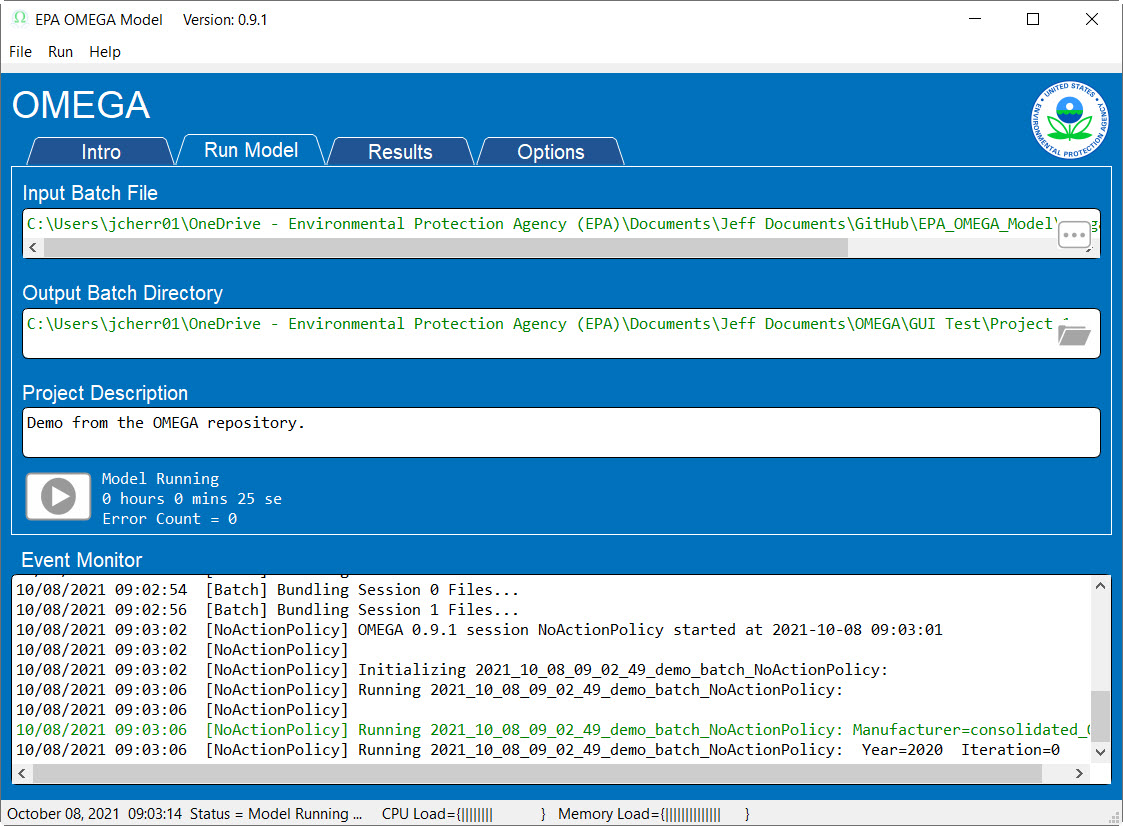
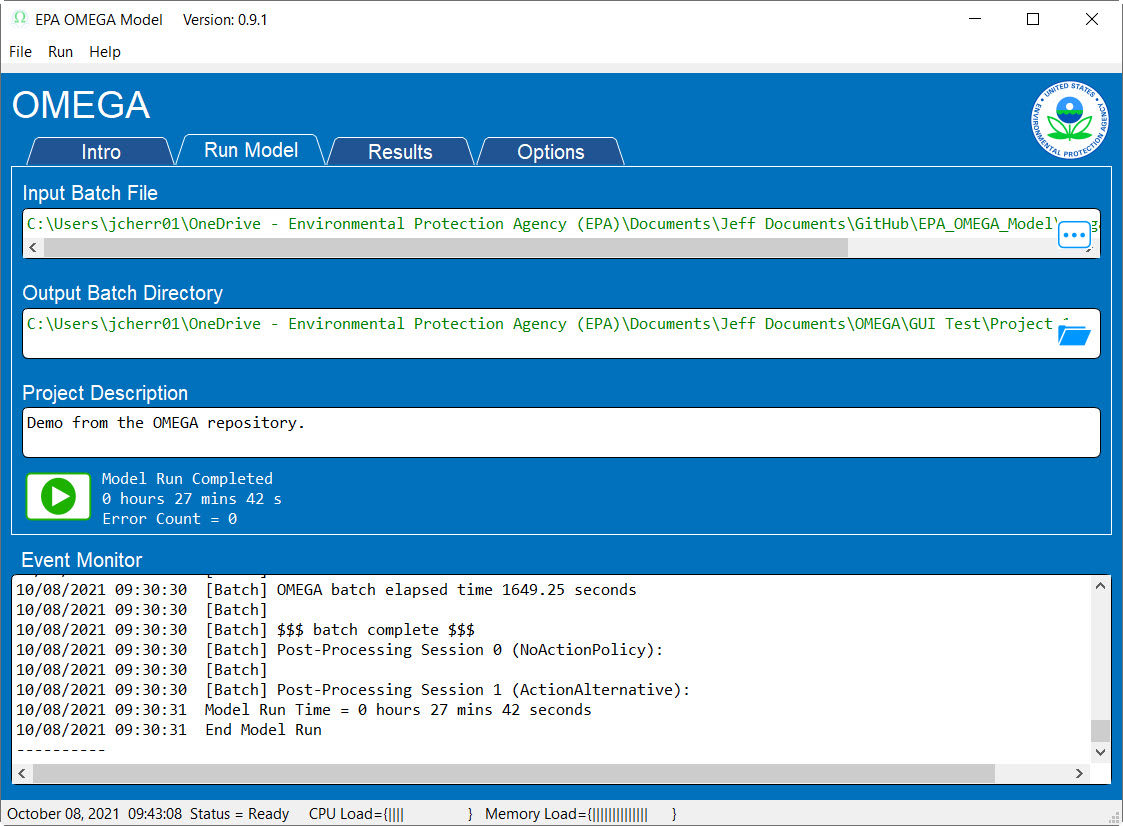
Documentation Update

diff --git a/doc/source/3_running_and_understanding_the_demo.rst b/doc/source/3_running_and_understanding_the_demo.rst
@@ -57,24 +57,14 @@ Description of the 'Run Model' page elements:
 
 Running the Demo Example
 ^^^^^^^^^^^^^^^^^^^^^^^^
-The elements required to run the model loaded using an existing Configuration File  (:numref:`ug_label6`) or by creating a new model run (:numref:`ug_label7`).  The latter will be used to run the demo example.
+The elements required to run the model are loaded by creating a new model run, or by using an existing Configuration File.  As this is the first time the Demo Example will be run, a new model run will be created.
 
 ::
 
     Note: The Event Monitor will provide additional guidance through the model loading process.
 
-.. _ug_label6:
-
-Existing Configuration File
----------------------------
-From the file menu, select 'Open Configuration File' to launch a standard File Explorer window to load an existing Configuration File.  When properly loaded, the 'Run Model' page will look similar to :numref:`ug_label3` below.  The displayed values represent one of the supplied demonstration model configurations.
-
-.. _ug_label7:
-
 Create New Model Run From The Demo Example
 ------------------------------------------
-If a Configuration File is not available, create a new model run using these steps:
-
 * Select the 'Run Model' tab.
 * Load an existing OMEGA Input Batch File using the file menu or button to the right of the field.  (Required)
 * Load a new or existing OMEGA Output Batch Directory using the file menu or button to the right of the field.  (Required)
@@ -82,6 +72,10 @@ If a Configuration File is not available, create a new model run using these ste
 * Use the file menu to save the new Configuration File.  (Optional)
 
 The 'Run Model' page will look similar to :numref:`ug_label3` below.  The displayed values represent one of the supplied demonstration model configurations.
+
+Existing Configuration File
+---------------------------
+If a model run configuration was previously saved, the configuration may be recalled to simplify repeating runs.  From the file menu, select 'Open Configuration File' to launch a standard File Explorer window to load an existing Configuration File.  When properly loaded, the 'Run Model' page will look similar to :numref:`ug_label3` below.  The displayed values represent one of the supplied demonstration model configurations.
 
 .. _ug_label3:
 .. figure:: _static/gui_figures/gui_model_loaded.jpg
@@ -99,7 +93,7 @@ Selecting the 'Options' tab will show a display similar to :numref:`ug_label11` 
 
     GUI Options Page Display
 
-The OMEGA model can be configured to utilize multiple system processors for true multitasking that significantly reduces model completion time.  For example, a typical Intel Core I7(R) has 8 processors total and typically 7 available for OMEGA to utilize.  Checking the 'Enable Multiprocessor' box instructs OMEGA to use multiprocessor mode.  The 'Multiprocessor Help' button provides additional information.
+The OMEGA model can be optionally configured to utilize multiple system processors for true multitasking that significantly reduces model completion time.  For example, a typical Intel Core I7(R) has 8 processors total and typically 7 available for OMEGA to utilize.  Checking the 'Enable Multiprocessor' box instructs OMEGA to use multiprocessor mode.  The 'Multiprocessor Help' button provides additional information.
 
 The Event Monitor will indicate multiprocessor availability during GUI launch as shown in :numref:`ug_label1` above.
 
@@ -152,7 +146,7 @@ When the model run is completed, the 'Run Model' page will look similar to :numr
 .. figure:: _static/ug_figures/gui_model_complete.jpg
     :align: center
 
-    Model Running
+    Model Completed
 
 Final GUI Data:
 
